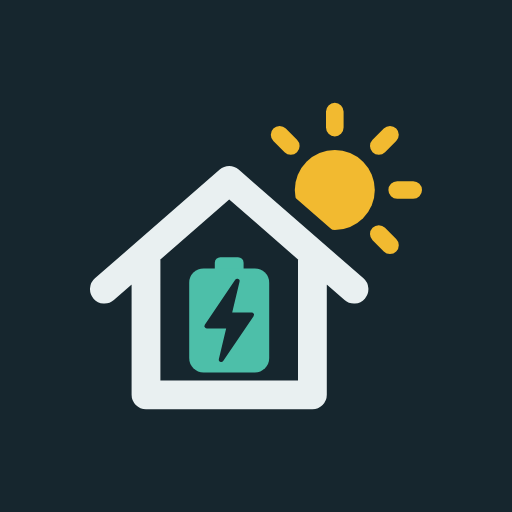
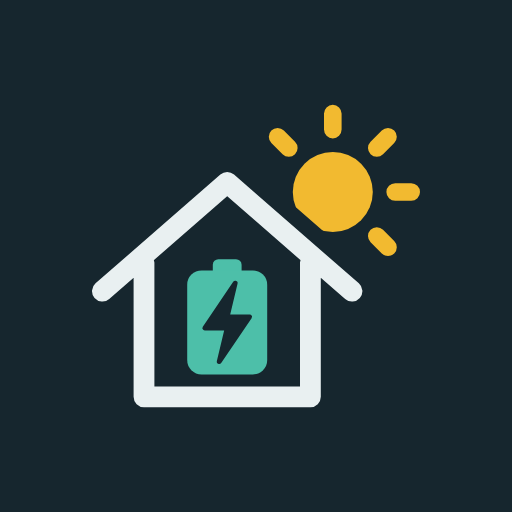
Draw the house with finer lines
House stroke from 36 to 26 units in every icon and logo, with the gap to
the sun kept at 20. Icon URLs bumped to ?v=4.

Claude-Session: https://claude.ai/code/session_013kxvrhae77zWwYQAhyqXAd

diff --git a/nuxt.config.ts b/nuxt.config.ts
@@ -31,8 +31,8 @@ export default defineNuxtConfig({
         { rel: 'preconnect', href: 'https://fonts.googleapis.com' },
         { rel: 'preconnect', href: 'https://fonts.gstatic.com', crossorigin: '' },
         { rel: 'stylesheet', href: 'https://fonts.googleapis.com/css2?family=Archivo:wdth,wght@62..125,100..900&display=swap' },
-        { rel: 'icon', type: 'image/svg+xml', href: '/favicon.svg?v=3' },
-        { rel: 'icon', type: 'image/png', sizes: '32x32', href: '/favicon-32.png?v=3' },
+        { rel: 'icon', type: 'image/svg+xml', href: '/favicon.svg?v=4' },
+        { rel: 'icon', type: 'image/png', sizes: '32x32', href: '/favicon-32.png?v=4' },
         // PNG only: iOS can't use SVG for the Home Screen icon
         { rel: 'apple-touch-icon', sizes: '180x180', href: appleTouchIcon },
       ],
